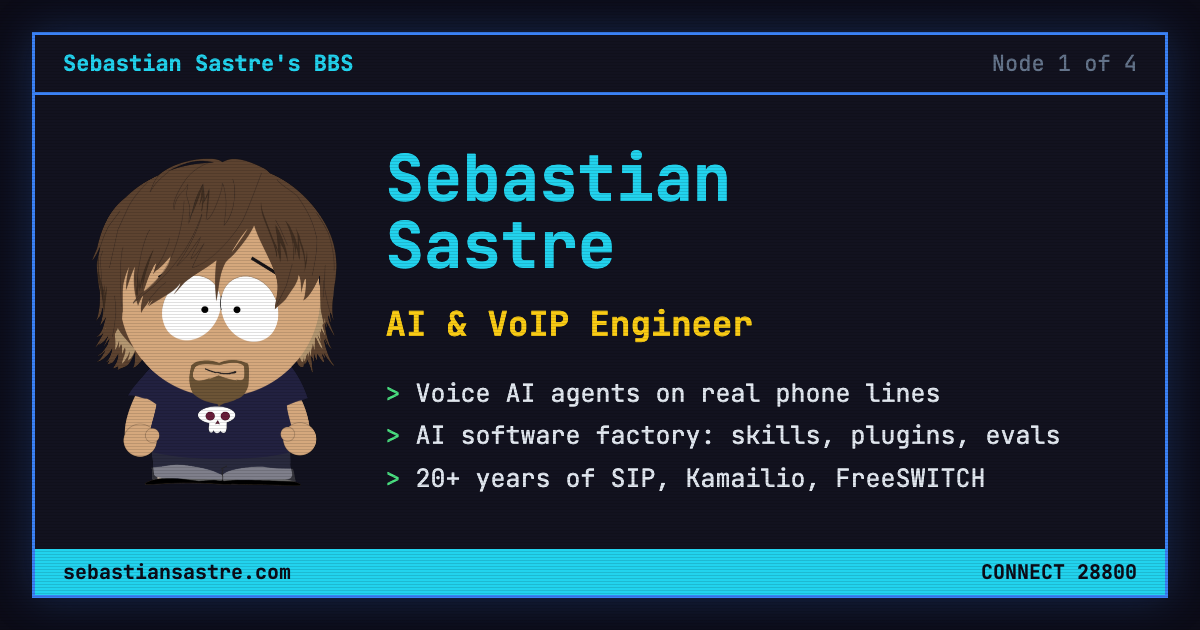
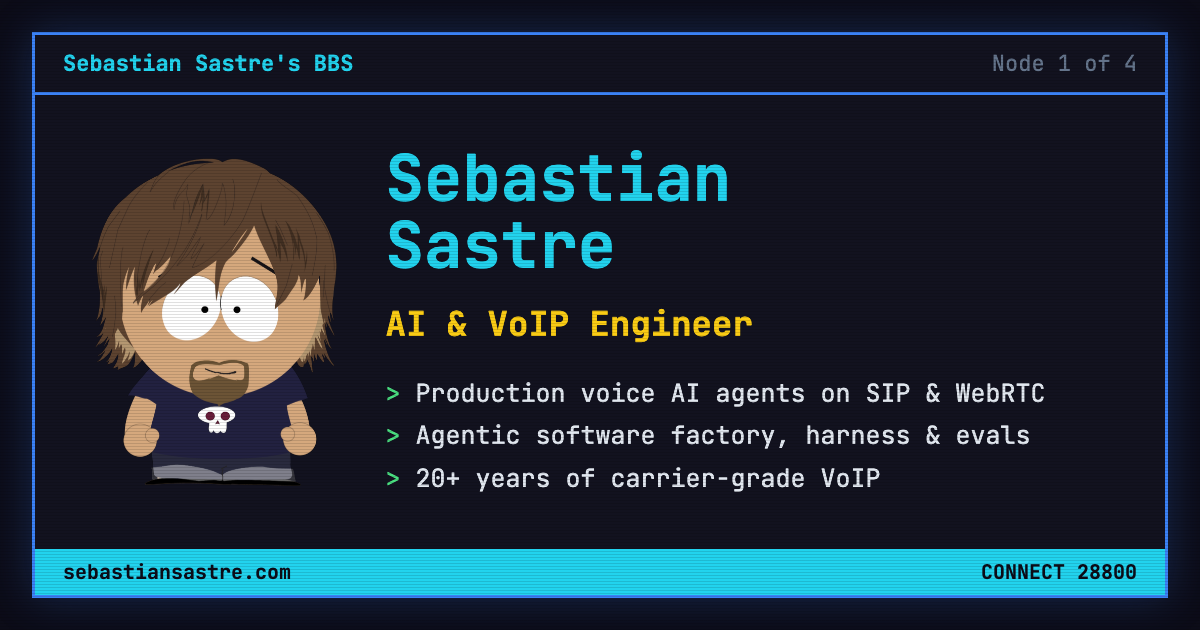
Rewrite AI copy using industry terminology
Agentic software factory, harness & context engineering, evaluation-driven
development, production voice AI. Update meta tags and og-image to match.

Changed region(s): [[0.3392, 0.6032, 0.8942, 0.7841]]

diff --git a/js/bbs.js b/js/bbs.js
@@ -32,36 +32,42 @@
 <img src="/sebacius.png" alt="Sebastian Sastre" class="w-14 flex-shrink-0 rounded object-contain">
 <div class="text-bbs-text">
 <span class="text-bbs-yellow">AI &amp; VoIP Engineer</span> with <span class="text-bbs-green">20+ years</span>
-in telecom. I lead teams, architect systems, and still get my hands dirty
-in code and SIP traces when it matters.
+in real-time communications. I lead teams, architect systems, and still
+get hands-on in code and SIP traces when it matters.
 </div>
 </div>
 
 <div class="text-bbs-text mb-4">
-These days I spend most of my time on AI. I build <span class="text-bbs-cyan">voice AI agents</span>
-that talk over real phone lines, and I build a <span class="text-bbs-cyan">software factory</span>:
-AI coding agents that plan, write, review and ship code, guided by
-skills, plugins and evals.
+My focus today is applied AI engineering. I build <span class="text-bbs-cyan">production voice AI agents</span>
+for real-time telephony, and I run an <span class="text-bbs-cyan">agentic software factory</span>: a
+spec-driven delivery pipeline where coding agents plan, implement, test
+and review changes behind human merge gates.
 </div>
 
 <div class="text-bbs-text mb-4">
-Underneath it all is two decades of real-time voice. I architect cloud-native
-platforms handling <span class="text-bbs-cyan">500K+ devices</span> and <span class="text-bbs-cyan">billions of minutes</span>,
-so I know what it takes for an AI agent to survive a real phone call.
+I treat AI like any other production system: harness and context
+engineering to steer the agents, and evals with regression gates to
+prove they work before anything ships.
+</div>
+
+<div class="text-bbs-text mb-4">
+Underneath it all is two decades of carrier-grade voice, on platforms handling
+<span class="text-bbs-cyan">500K+ devices</span> and <span class="text-bbs-cyan">billions of minutes</span>. My voice agents are
+built for the PSTN, not for the demo.
 </div>
 
 <div class="text-bbs-yellow mb-2">What I Bring:</div>
 <div class="text-bbs-text ml-4 mb-4">
-  <span class="text-bbs-green">></span> Voice AI agents on real telephony: Pipecat, STT, LLMs, TTS over SIP/RTP<br>
-  <span class="text-bbs-green">></span> Agentic engineering: Claude Code skills, plugins, subagents and evals<br>
-  <span class="text-bbs-green">></span> Deep protocol expertise: Kamailio, FreeSWITCH, SIP inside and out<br>
-  <span class="text-bbs-green">></span> Cloud-native architecture at national scale on AWS, GCP and Kubernetes<br>
-  <span class="text-bbs-green">></span> The rare engineer who reads SIP traces for fun
+  <span class="text-bbs-green">></span> Production voice AI: Pipecat agents over SIP and WebRTC, tuned for latency and turn-taking<br>
+  <span class="text-bbs-green">></span> Agentic engineering: spec-driven agent pipelines, Claude Code skills, plugins and MCP tooling<br>
+  <span class="text-bbs-green">></span> Evaluation-driven development: golden datasets, LLM-as-judge, regression gates<br>
+  <span class="text-bbs-green">></span> Carrier-grade VoIP: Kamailio, FreeSWITCH, SIP inside and out<br>
+  <span class="text-bbs-green">></span> Cloud-native architecture at national scale on AWS, GCP and Kubernetes
 </div>
 
 <div class="text-bbs-muted">
 From calling cards to AI agents that answer the phone, I've seen telecom
-evolve and I'm helping build what comes next.
+evolve, and I'm building what comes next.
 </div>
 `,
 
@@ -70,16 +76,17 @@ evolve and I'm helping build what comes next.
 
 <div class="text-bbs-yellow mb-2">AI Engineering</div>
 <div class="text-bbs-text ml-4 mb-4">
-  Claude Code, skills, plugins, subagents, MCP servers<br>
-  Evals, agentic workflows, AI software factory<br>
-  Claude, ChatGPT, Gemini, Ollama, LangChain, OpenAI API
+  Agentic workflows, multi-agent orchestration, spec-driven development<br>
+  Harness &amp; context engineering: Claude Code skills, plugins, subagents, MCP servers<br>
+  Evals: golden datasets, LLM-as-judge, regression gates<br>
+  Claude, GPT, Gemini, Ollama, LangChain, OpenAI API
 </div>
 
 <div class="text-bbs-yellow mb-2">Voice AI</div>
 <div class="text-bbs-text ml-4 mb-4">
-  <span class="text-bbs-green">Pipecat</span> voice agents over SIP/RTP and WebRTC<br>
-  Whisper, Deepgram, ElevenLabs. STT → LLM → TTS pipelines<br>
-  <span class="text-bbs-muted">Latency, turn-taking and interruptions: the hard parts are telephony.</span>
+  Real-time voice agents with <span class="text-bbs-green">Pipecat</span> over SIP, RTP and WebRTC<br>
+  Streaming STT → LLM → TTS: Deepgram, Whisper, ElevenLabs<br>
+  Latency budgets, turn detection, barge-in handling, human handoff
 </div>
 
 <div class="text-bbs-yellow mb-2">VoIP & Telecom</div>
@@ -182,20 +189,21 @@ solutions meant to last.
 <div class="text-bbs-yellow mb-2">Key Areas of Focus:</div>
 
 <div class="mb-5">
-  <div class="text-bbs-green font-bold">Voice AI Agents</div>
+  <div class="text-bbs-green font-bold">Production Voice AI</div>
   <div class="text-bbs-text ml-4">
-    AI agents that answer and make real phone calls. Pipecat pipelines wired
-    into SIP and RTP, with STT, LLM and TTS tuned for low latency. AI woven
-    into the voice architecture, not bolted on.
+    Real-time voice agents that handle live phone calls, built with Pipecat
+    and wired into SIP/RTP infrastructure. Streaming STT, LLM and TTS tuned
+    to a tight latency budget, with interruption handling and escalation to
+    human agents. AI woven into the voice architecture, not bolted on.
   </div>
 </div>
 
 <div class="mb-5">
-  <div class="text-bbs-green font-bold">AI Software Factory</div>
+  <div class="text-bbs-green font-bold">Agentic Software Delivery</div>
   <div class="text-bbs-text ml-4">
-    Treating AI coding agents as an engineering team: specialized agents,
-    reusable skills and plugins, isolated worktrees, and evals that check
-    the output before it ships.
+    An agentic software factory: spec-driven pipelines where specialized
+    coding agents plan, implement, test and review changes in isolated
+    worktrees, with automated verification and human merge gates.
   </div>
 </div>
 
@@ -240,48 +248,53 @@ solutions meant to last.
 <div class="text-bbs-cyan font-bold mb-4">AI Lab</div>
 
 <div class="text-bbs-text mb-4">
-What I'm building right now. Twenty years of telecom taught me that
-demos are easy and production is hard. The same is true for AI.
+Current work. Two decades of telecom taught me that demos are easy and
+production is hard. AI is no different, so I build it like production
+infrastructure.
 </div>
 
 <div class="mb-5">
-  <div class="text-bbs-green font-bold">Voice AI Agents</div>
+  <div class="text-bbs-green font-bold">Production Voice AI</div>
   <div class="text-bbs-text ml-4">
-    Conversational agents built with <span class="text-bbs-cyan">Pipecat</span> that live on real
-    phone lines. SIP and RTP in, STT → LLM → TTS out. The hard parts
-    are the telephony ones: latency budgets, barge-in, turn-taking, codecs
-    and calls that need to hand off to a human.
+    Real-time conversational agents built with <span class="text-bbs-cyan">Pipecat</span> and deployed
+    on real phone lines over SIP and WebRTC. Streaming STT → LLM → TTS
+    under a strict latency budget. The hard problems are telephony problems:
+    turn detection, barge-in, codecs, jitter, and a warm transfer to a human
+    when the agent should step aside.
   </div>
 </div>
 
 <div class="mb-5">
-  <div class="text-bbs-green font-bold">Software Factory</div>
+  <div class="text-bbs-green font-bold">Agentic Software Factory</div>
   <div class="text-bbs-text ml-4">
-    A pipeline of AI coding agents that takes work from plan to merged code.
-    Specialized agents for architecture, backend, docs and review, each
-    working in its own git worktree.
+    A spec-driven delivery pipeline for AI coding agents. Work moves from
+    spec to plan, implementation, tests and review, with specialized agents
+    for architecture, backend, docs and code review, each in an isolated
+    git worktree. Humans own the merge gate.
   </div>
 </div>
 
 <div class="mb-5">
-  <div class="text-bbs-green font-bold">Skills &amp; Plugins</div>
+  <div class="text-bbs-green font-bold">Harness &amp; Context Engineering</div>
   <div class="text-bbs-text ml-4">
-    Packaging hard-won know-how as <span class="text-bbs-cyan">Claude Code</span> skills, plugins
-    and MCP servers, so agents work like a senior teammate instead of
-    a fast intern.
+    The system around the model matters as much as the model. I package
+    domain expertise as <span class="text-bbs-cyan">Claude Code</span> skills, plugins and MCP servers
+    that give agents the right context, tools and guardrails, so they
+    perform like senior engineers rather than fast interns.
   </div>
 </div>
 
 <div class="mb-5">
   <div class="text-bbs-green font-bold">Evals</div>
   <div class="text-bbs-text ml-4">
-    If you can't measure it, you can't ship it. Eval suites that keep
-    agents and prompts honest as models and code change.
+    Evaluation-driven development: golden datasets, LLM-as-judge scoring
+    and regression gates that run on every prompt, harness and model
+    change. If it isn't measured, it doesn't ship.
   </div>
 </div>
 
 <div class="text-bbs-muted">
-Want to talk voice AI or agentic engineering? Press 'F' to find me.
+Building voice agents or an agentic engineering practice? Press 'F' to find me.
 </div>
 `,
 
@@ -304,8 +317,8 @@ Want to talk voice AI or agentic engineering? Press 'F' to find me.
 </div>
 
 <div class="text-bbs-muted mt-6">
-Whether you're putting AI agents on the phone, building an agentic
-engineering workflow, or architecting a VoIP platform from scratch,
+Whether you're putting AI agents on the phone, standing up an agentic
+engineering practice, or architecting a VoIP platform from scratch,
 let's talk.
 </div>
 `,

diff --git a/index.html b/index.html
@@ -7,8 +7,8 @@
     <!-- Primary Meta Tags -->
     <title>Sebastian Sastre - AI &amp; VoIP Engineer</title>
     <meta name="title" content="Sebastian Sastre - AI &amp; VoIP Engineer" />
-    <meta name="description" content="AI &amp; VoIP Engineer with 20+ years in telecom. Voice AI agents with Pipecat, AI software factories with Claude Code skills, plugins and evals. Kamailio, FreeSWITCH, SIP, AWS." />
-    <meta name="keywords" content="AI engineer, Voice AI, AI agents, Pipecat, Claude Code, agentic engineering, evals, VoIP, SIP, Kamailio, FreeSWITCH, WebRTC, AWS, telecom" />
+    <meta name="description" content="AI &amp; VoIP Engineer with 20+ years in real-time communications. Production voice AI agents, agentic software delivery, harness engineering and evals. Kamailio, FreeSWITCH, SIP, AWS." />
+    <meta name="keywords" content="AI engineer, voice AI, AI agents, agentic engineering, agentic software factory, harness engineering, context engineering, LLM evals, Pipecat, Claude Code, VoIP, SIP, Kamailio, FreeSWITCH, WebRTC, AWS" />
     <meta name="author" content="Sebastian Sastre" />
 
     <!-- Canonical -->
@@ -18,7 +18,7 @@
     <meta property="og:type" content="website" />
     <meta property="og:url" content="https://sebastiansastre.com/" />
     <meta property="og:title" content="Sebastian Sastre - AI &amp; VoIP Engineer" />
-    <meta property="og:description" content="Voice AI agents, AI software factories, and 20+ years of real-time telecom." />
+    <meta property="og:description" content="Production voice AI, agentic software factories and evals, built on 20+ years of carrier-grade VoIP." />
     <meta property="og:image" content="https://sebastiansastre.com/og-image.png" />
     <meta property="og:image:width" content="1200" />
     <meta property="og:image:height" content="630" />
@@ -26,7 +26,7 @@
     <!-- Twitter Card -->
     <meta name="twitter:card" content="summary_large_image" />
     <meta name="twitter:title" content="Sebastian Sastre - AI &amp; VoIP Engineer" />
-    <meta name="twitter:description" content="Voice AI agents, AI software factories, and 20+ years of real-time telecom." />
+    <meta name="twitter:description" content="Production voice AI, agentic software factories and evals, built on 20+ years of carrier-grade VoIP." />
     <meta name="twitter:image" content="https://sebastiansastre.com/og-image.png" />
 
     <!-- Structured Data -->
@@ -41,7 +41,7 @@
         "https://www.linkedin.com/in/sebastian-sastre/",
         "https://github.com/sebacius"
       ],
-      "knowsAbout": ["AI engineering", "Voice AI", "AI agents", "Pipecat", "Claude Code", "LLM evals", "VoIP", "Kamailio", "FreeSWITCH", "SIP", "WebRTC", "AWS", "Kubernetes", "Go"]
+      "knowsAbout": ["AI engineering", "Voice AI", "Agentic engineering", "Harness engineering", "LLM evals", "Pipecat", "Claude Code", "VoIP", "Kamailio", "FreeSWITCH", "SIP", "WebRTC", "AWS", "Kubernetes", "Go"]
     }
     </script>
 
@@ -208,7 +208,7 @@
             <span class="text-bbs-muted hidden sm:inline">|</span>
             <span class="text-bbs-green">20+ Years Experience</span>
             <span class="text-bbs-muted hidden md:inline">|</span>
-            <span class="text-bbs-text hidden md:inline">AI Agents, Pipecat, Kamailio, Go, AWS</span>
+            <span class="text-bbs-text hidden md:inline">Voice AI, Agentic Engineering, SIP, AWS</span>
           </div>
         </div>
       </div>
